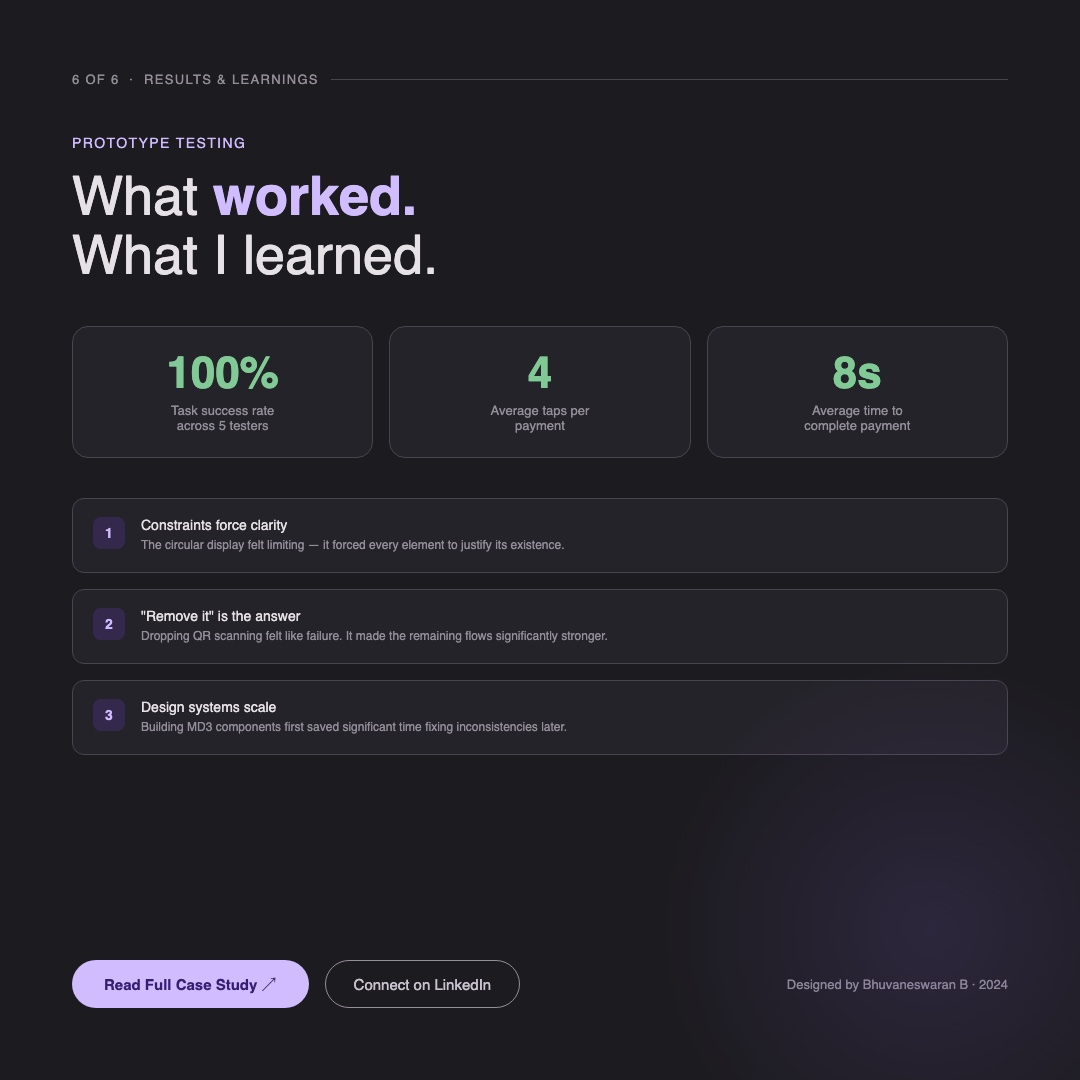
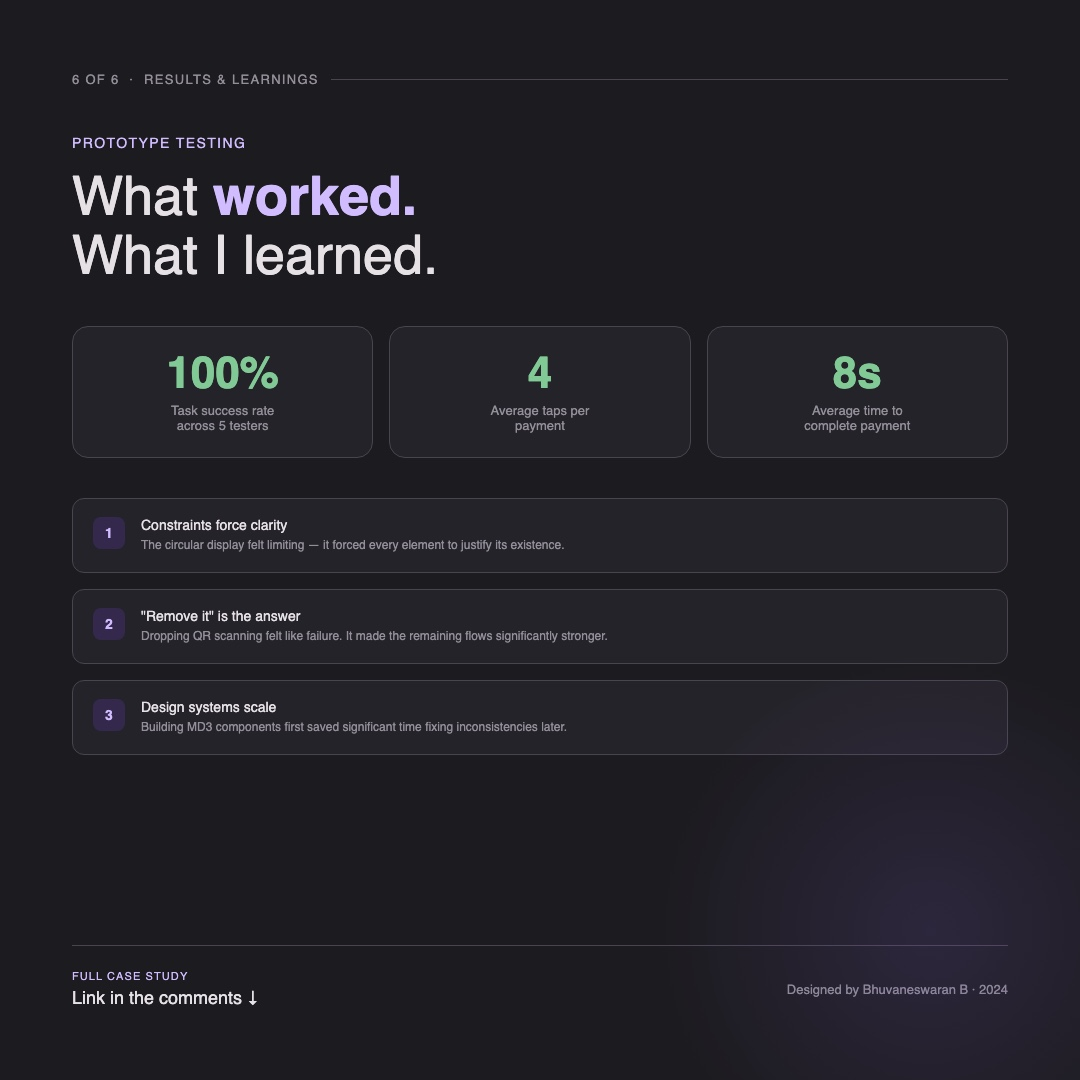
Replace dead CTA buttons on carousel-06 with text CTA
Clickable buttons in a JPEG are useless. Replaced with 'Link in the
comments ↓' — the standard LinkedIn convention for driving traffic
from carousel posts.

Changed region(s): [[0.0611, 0.8861, 0.3056, 0.9472], [0.7333, 0.8861, 0.9167, 0.9167], [0.3361, 0.8861, 0.4583, 0.9167]]

diff --git a/linkedin/carousel-06.html b/linkedin/carousel-06.html
@@ -81,29 +81,23 @@
   .learning-sub { font-size: 12px; color: #938F99; line-height: 1.5; }
 
   .cta-row {
-    display: flex; align-items: center; gap: 16px;
+    display: flex; align-items: center; justify-content: space-between;
     margin-top: 32px;
+    border-top: 1px solid #49454F;
+    padding-top: 24px;
   }
-  .cta-btn {
-    height: 48px; padding: 0 32px;
-    border-radius: 100px;
-    background: #D0BCFF; color: #381E72;
-    font-family: 'Roboto', sans-serif;
-    font-size: 15px; font-weight: 700;
-    text-decoration: none;
-    display: inline-flex; align-items: center; gap: 8px;
+  .cta-main {
+    display: flex; flex-direction: column; gap: 4px;
   }
-  .cta-btn-outlined {
-    height: 48px; padding: 0 28px;
-    border-radius: 100px;
-    border: 1.5px solid #938F99; background: transparent;
-    color: #CAC4D0;
-    font-family: 'Roboto', sans-serif;
-    font-size: 15px; font-weight: 500;
-    text-decoration: none;
-    display: inline-flex; align-items: center; gap: 8px;
+  .cta-main-label {
+    font-size: 11px; font-weight: 500; letter-spacing: 0.1em;
+    text-transform: uppercase; color: #D0BCFF;
   }
-  .cta-text { font-size: 13px; color: #938F99; margin-left: auto; }
+  .cta-main-text {
+    font-family: 'Google Sans', sans-serif;
+    font-size: 18px; font-weight: 400; color: #E6E1E5;
+  }
+  .cta-credit { font-size: 13px; color: #938F99; text-align: right; }
 </style>
 </head>
 <body>
@@ -153,9 +147,11 @@
   </div>
 
   <div class="cta-row">
-    <a class="cta-btn" href="https://boo2018-dotcom.github.io/portfolio/wearos.html">Read Full Case Study ↗</a>
-    <a class="cta-btn-outlined" href="https://www.linkedin.com/in/bhuvaneswaran-b">Connect on LinkedIn</a>
-    <span class="cta-text">Designed by Bhuvaneswaran B · 2024</span>
+    <div class="cta-main">
+      <span class="cta-main-label">Full case study</span>
+      <span class="cta-main-text">Link in the comments ↓</span>
+    </div>
+    <span class="cta-credit">Designed by Bhuvaneswaran B · 2024</span>
   </div>
 </div>
 </body>